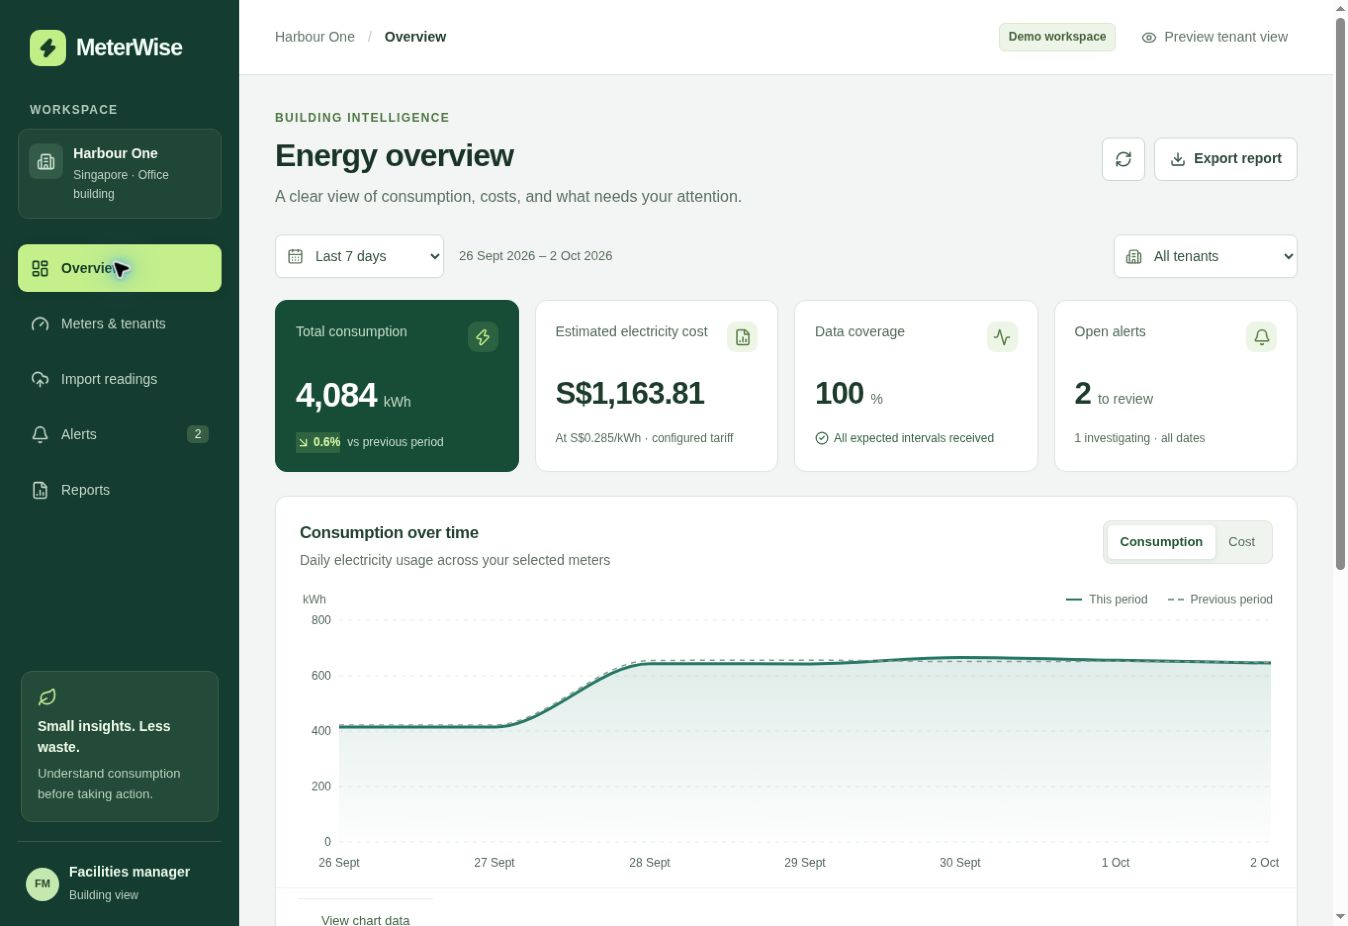
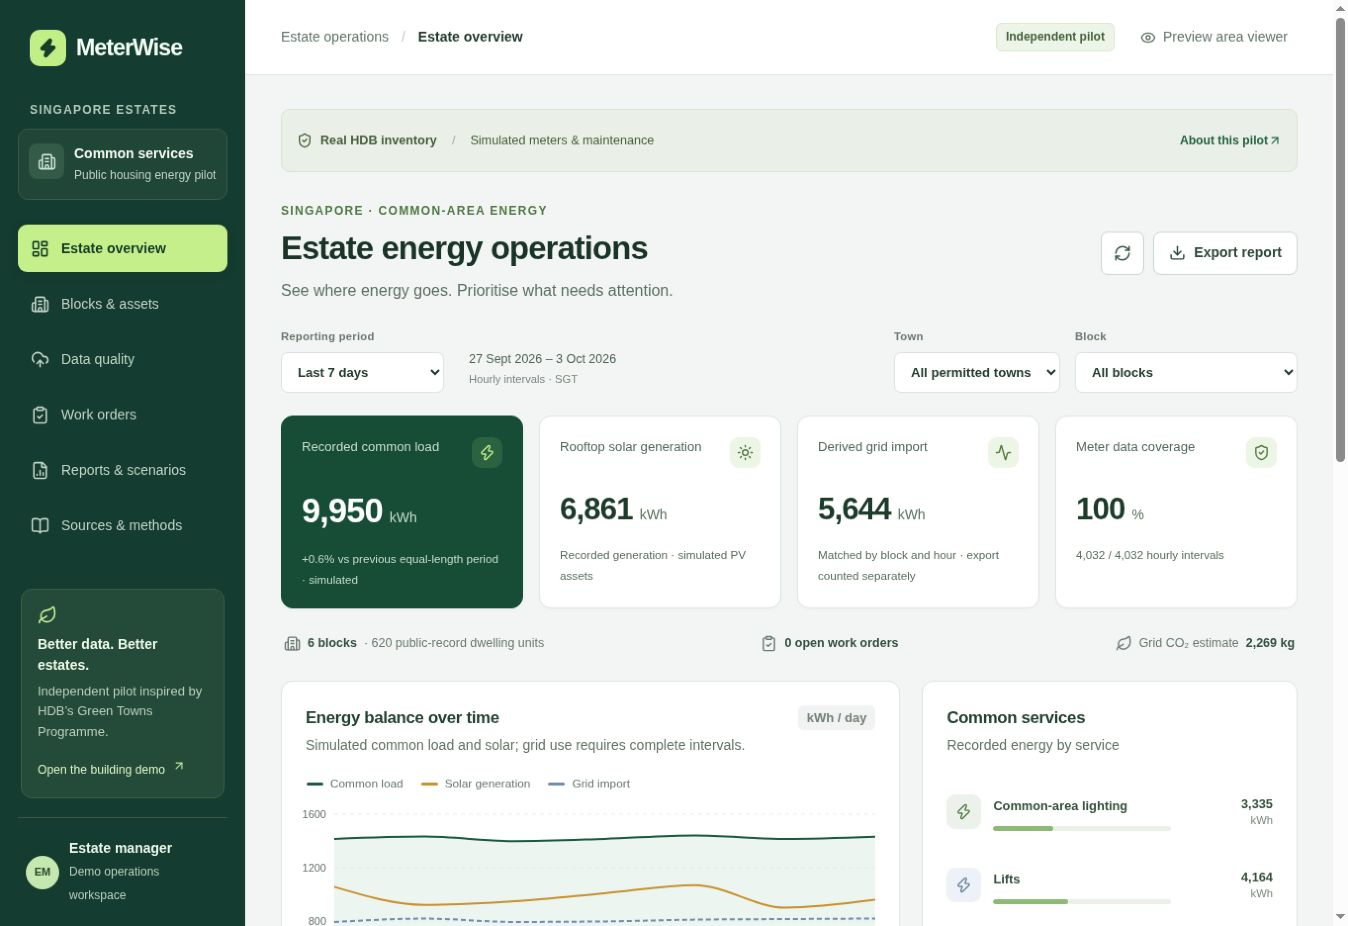
Add real screenshots of the Singapore estate energy pilot

diff --git a/src/assets/images/projects/meterwise/README.md b/src/assets/images/projects/meterwise/README.md
@@ -1,6 +1,7 @@
 # MeterWise screenshots
 
-These are real screenshots of MeterWise version 1.2 captured in cloud Chrome from https://meterwise-kappa.vercel.app/ on 3 October 2026. The app runs on Vercel with persistent Turso storage. All building readings and tenant names are synthetic demo data.
+Current screenshots are real cloud Chrome captures of MeterWise version 2.0 from https://meterwise-kappa.vercel.app/ on 3 October 2026 UTC (4 October SGT). Vercel serves the application and Turso persists each demonstration workspace. HDB building metadata is public and real; asset installations, meter readings and maintenance are simulated. The project is not affiliated with HDB or any Town Council.
 
-- energy-overview.jpg: consumption, estimated SGD cost, 100% coverage and daily chart after importing eight missing readings.
-- csv-validation.jpg: one valid reading, two duplicate rows and one invalid meter ID.
+- energy-overview.jpg: the six-block Singapore estate dashboard after two missing intervals were repaired, showing 100% coverage and separate load, solar and grid energy.
+- work-order-audit.jpg: the production maintenance queue after a simulated pump inspection progressed through completion and verification. No contractor is dispatched.
+- csv-validation.jpg: retained historical version 1.2 office-building validation screenshot; no longer used by the current case study.
